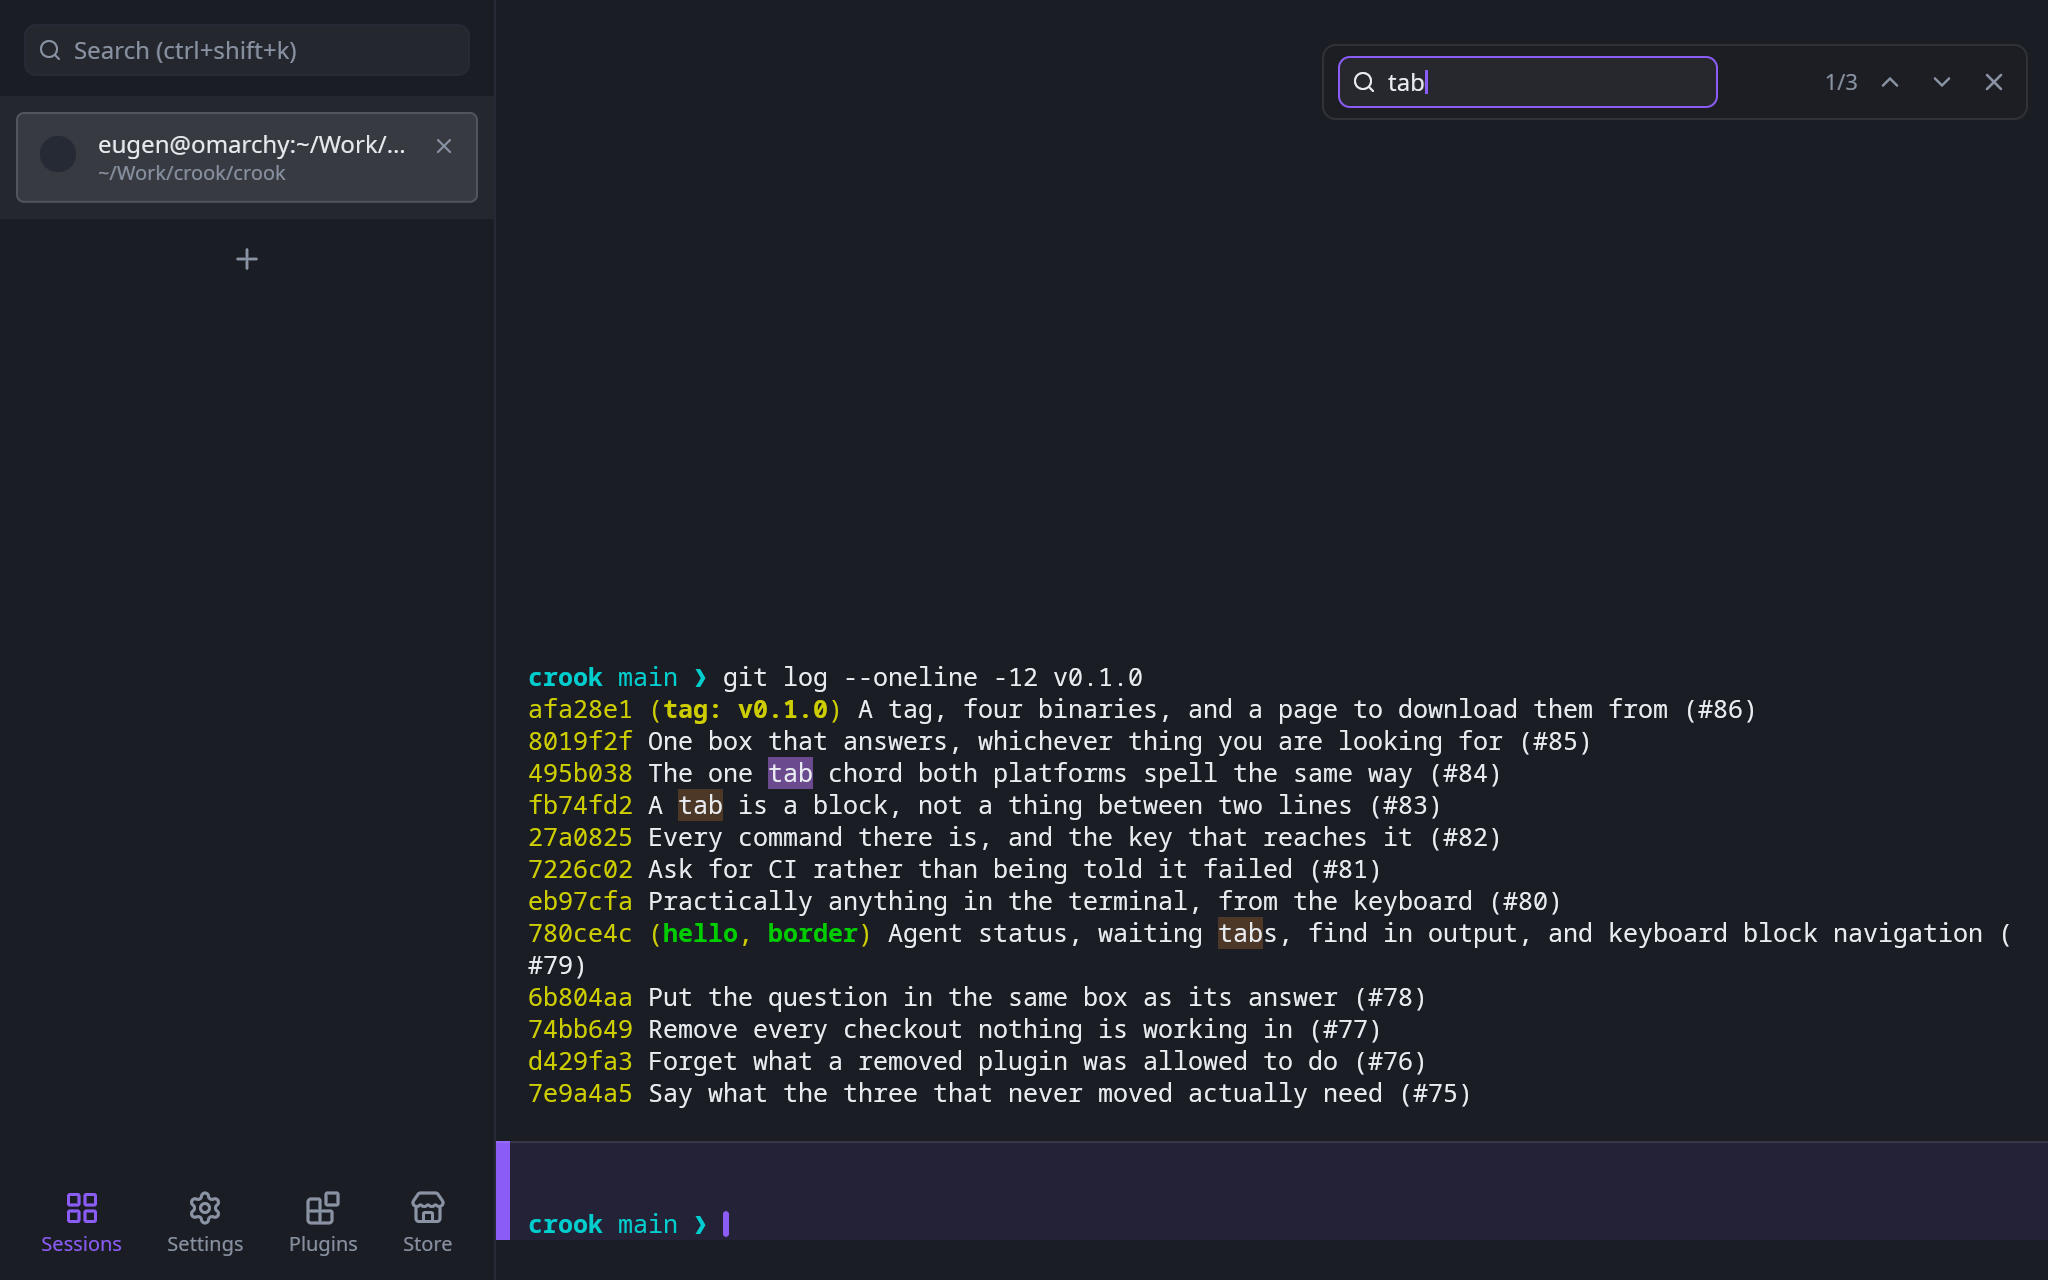
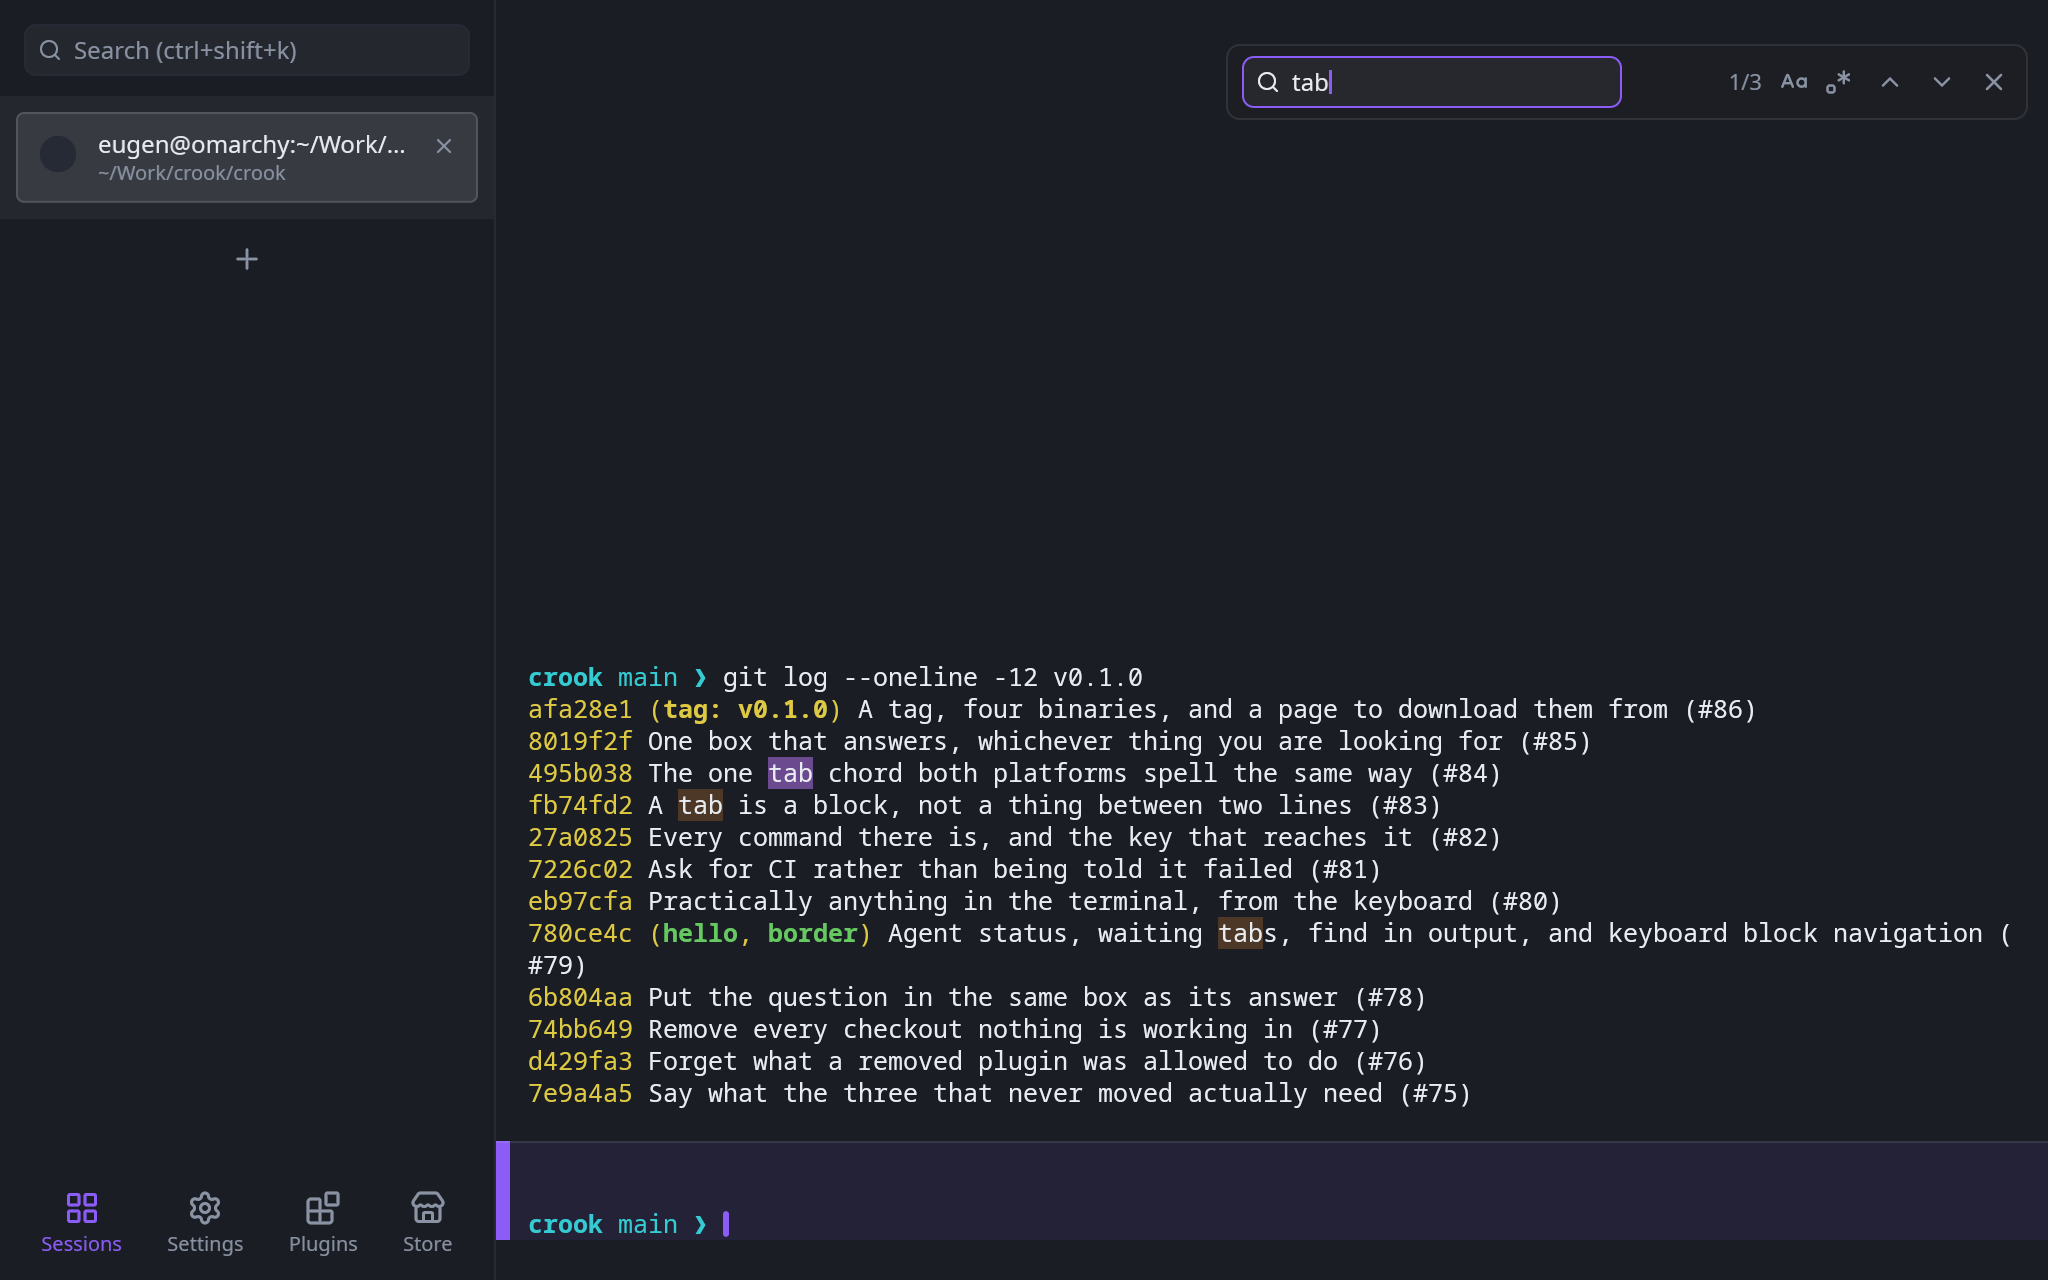
fix(theme): give Crook Dark and Midnight normal ANSI colours that read on their grid (#519)
Crook Dark, the theme Crook opens in, and Midnight both printed in xterm's
normal eight. On Crook Dark's pane that blue is 1.79:1 and that red 2.89:1,
so `ls` drew directories you could barely see, and `git diff` removals and
error lines were not much better. The theme preview card's `docs` had the
same problem.

The two themes now share DARK_NORMAL: xterm's hues (in OKLCH) lifted until
each of red to white is at least 4.5:1 on Crook Dark's #1a1d24 grid, which
also puts them above that on Midnight's black. Red #f05f5a 5.21:1, green
#66c860 8.03:1, yellow #dec943 10.07:1, blue #6a9cfb 6.23:1, magenta
#d574d3 5.84:1, cyan #35cbd2 8.53:1, white #e5e5e5 kept at 13.39:1.
Black stays #000000: it is the fill behind light text and the ink on a
coloured fill. The bright half stays xterm's (the tab colour swatches use
it), ANSI_NORMAL stays xterm's for the theme creator and crook_terminal's
default, and Crook Light already clears the bar (lowest is 5.01:1) so it
is unchanged. The Omarchy palettes are their authors' and are untouched.

This changes the default look, with the owner's approval (2026-10-14).
Midnight is derived, so its usage and diff chips follow its new red,
green and yellow. The failed-block stripe in both themes uses the new
red.

every_colour_a_program_prints_in_reads_on_crooks_own_themes holds the
built-in Crook themes' normal colours 1-7 to 4.5:1 and failed on main
(Crook Dark red 2.89:1). The grid test that compared slot 1 with
[…]

diff --git a/app/src/theme/builtin.rs b/app/src/theme/builtin.rs
@@ -67,10 +67,10 @@ pub const BUILTIN: [Builtin; 3 + OMARCHY.len()] = {
 
 /// The sixteen colours a program asks for by number.
 ///
-/// The xterm values every terminal agrees on, which is also what
-/// `crook_terminal`'s own default palette holds. A theme that wants its own
-/// sixteen says so; a theme that does not gets the ones every program was
-/// written against.
+/// The xterm values, which are also what `crook_terminal`'s own default
+/// palette holds, and what the [theme creator](super::creator) gives a
+/// generated theme whose grid they read best on. Crook's own dark themes keep
+/// the bright half and replace this one with [`DARK_NORMAL`].
 pub(super) const ANSI_NORMAL: [Color; 8] = [
     Color::hex(0x000000),
     Color::hex(0xcd0000),
@@ -92,6 +92,31 @@ pub(super) const ANSI_BRIGHT: [Color; 8] = [
     Color::hex(0xff00ff),
     Color::hex(0x00ffff),
     Color::hex(0xffffff),
+];
+
+/// The normal eight that Crook Dark and Midnight print in.
+///
+/// xterm's hues, lifted until each one reads as text on a dark grid. xterm's
+/// own blue is 1.79:1 on Crook Dark's pane and its red 2.89:1, and `ls` draws
+/// directories in that blue, so the first thing a new window showed was a
+/// listing whose directories could barely be seen. Red to white are each at
+/// least 4.5:1, WCAG's bar for text, on Crook Dark's grid. Midnight's grid is
+/// black, darker than that, so the same eight read better there still and the
+/// two themes share them.
+///
+/// Black stays black. On a dark grid it is the colour a program fills behind
+/// light text, or inks dark text with on a coloured fill, and both need it
+/// dark. The bright half is not touched: it is still [`ANSI_BRIGHT`], which is
+/// what the tab colour swatches are drawn from.
+const DARK_NORMAL: [Color; 8] = [
+    Color::hex(0x000000),
+    Color::hex(0xf05f5a),
+    Color::hex(0x66c860),
+    Color::hex(0xdec943),
+    Color::hex(0x6a9cfb),
+    Color::hex(0xd574d3),
+    Color::hex(0x35cbd2),
+    Color::hex(0xe5e5e5),
 ];
 
 /// What Crook has always looked like, and what it opens in.
@@ -129,7 +154,7 @@ pub const DARK: Theme = Theme {
         foreground: Color::hex(0xe8ebf0),
         background: Color::hex(0x1a1d24),
         cursor: Color::hex(0x8b5cf6),
-        normal: ANSI_NORMAL,
+        normal: DARK_NORMAL,
         bright: ANSI_BRIGHT,
     },
     is_light: false,
@@ -179,7 +204,7 @@ pub const MIDNIGHT: Theme = Theme::derived(
         foreground: Color::hex(0xd8dee9),
         background: Color::hex(0x000000),
         cursor: Color::hex(0x7c9cff),
-        normal: ANSI_NORMAL,
+        normal: DARK_NORMAL,
         bright: ANSI_BRIGHT,
     },
 );

diff --git a/app/src/theme_tests.rs b/app/src/theme_tests.rs
@@ -139,6 +139,48 @@ fn every_built_in_theme_is_legible() {
 }
 
 #[test]
+fn every_colour_a_program_prints_in_reads_on_crooks_own_themes() {
+    // `ls` paints directories in colour 4 and `git diff` its removals in
+    // colour 1, so these are text, and text is held to WCAG's 4.5:1. The
+    // xterm set fails it on a dark grid — its blue was 1.79:1 on Crook Dark —
+    // which is why Crook's own dark themes carry a set of their own.
+    //
+    // Colour 0 is left out: on a dark grid black is the slot a program fills
+    // behind light text or paints dark ink on a coloured fill with, and a
+    // black that read as text on the grid would do neither.
+    //
+    // The palettes in `omarchy` are their authors' and are not held to this.
+    let crooks: Vec<Builtin> = BUILTIN
+        .into_iter()
+        .filter(|builtin| {
+            !omarchy::OMARCHY
+                .iter()
+                .any(|(name, _)| *name == builtin.name)
+        })
+        .collect();
+    assert_eq!(
+        crooks
+            .iter()
+            .map(|builtin| builtin.name)
+            .collect::<Vec<_>>(),
+        ["Crook Dark", "Crook Light", "Midnight"],
+        "the themes this holds to the bar are not the ones Crook ships"
+    );
+
+    for builtin in crooks {
+        let terminal = builtin.theme.terminal;
+        for (index, color) in terminal.normal.iter().enumerate().skip(1) {
+            let ratio = contrast(*color, terminal.background);
+            assert!(
+                ratio >= 4.5,
+                "{}: colour {index}, {color:?}, is {ratio:.2}:1 on its grid",
+                builtin.name
+            );
+        }
+    }
+}
+
+#[test]
 fn whether_a_theme_is_light_is_inferred_from_its_text() {
     // Warp's rule, and the reason no theme file declares a mode: a palette
     // whose text is dark is a palette meant for a light background, and

diff --git a/app/src/terminal_model_tests.rs b/app/src/terminal_model_tests.rs
@@ -127,9 +127,11 @@ fn the_grid_is_drawn_on_the_panel_it_sits_in() {
     let palette = crook_palette();
     assert_eq!(palette.background, rgb(theme().surface));
     assert_eq!(palette.foreground, rgb(theme().text_primary));
+    // The theme's red rather than the emulator's: Crook Dark's is lighter than
+    // xterm's, so that it reads as text on this panel.
     assert_eq!(
         palette.ansi[1],
-        Palette::default().ansi[1],
+        rgb(theme().terminal.normal[1]),
         "a program that asked for red must still get red"
     );
     // Dim text resolves through this slot, so a palette that left it at the

diff --git a/app/src/theme/file_tests.rs b/app/src/theme/file_tests.rs
@@ -705,7 +705,7 @@ fn a_written_theme_is_spelled_the_way_warp_spells_one() {
         ),
         "the file does not open the way Warp writes one: {text}"
     );
-    assert!(text.contains("  normal:\n    black: '#000000'\n    red: '#cd0000'\n"));
+    assert!(text.contains("  normal:\n    black: '#000000'\n    red: '#f05f5a'\n"));
     assert!(text.contains("  bright:\n    black: '#7f7f7f'\n"));
     assert_eq!(
         text.lines().count(),
